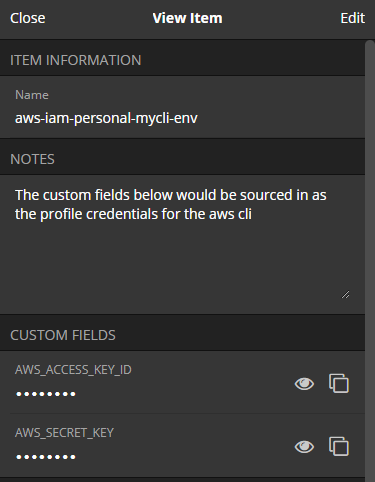
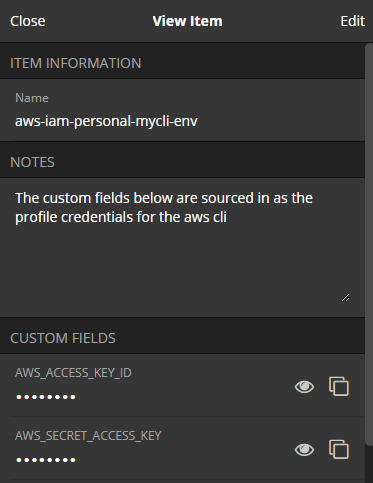
update

diff --git a/README.md b/README.md
@@ -13,23 +13,23 @@ See AWS Documentation [Sourcing credentials with an external process](https://do
 ### Adding AWS Secrets to Bitwarden
 ![](/assets/bw-item-ss.png "bitwarden item for aws-bw")
 - Create an item to store a single aws credential profile. Make the name unique so it is easy to find. E.g. `aws-iam-personal-mycli-env` or a naming convention like `<clientA>-aws-iam-<account>-<name>-env` perhaps.
-- Add the following custom fields and provide their values: `AWS_ACCESS_KEY_ID` and `AWS_SECRET_KEY`
+- Add the following custom fields and provide their values: `AWS_ACCESS_KEY_ID` and `AWS_SECRET_ACCESS_KEY`
 
 ### Getting secrets onto server
 #### Initial Configuration
-- Consider [envwarden](https://github.com/envwarden/envwarden) if needing to set Environment Variables.
-- If wanting to source the `.aws/credentials` profile values to a Bitwarden Item, modify the profile to use the `aws-bw` script and pass the relevant Bitwarden Item Name. E.g.
+- If the preferred approach is to set Environment Variables, then consider [envwarden](https://github.com/envwarden/envwarden).
+- If the preferred approach is with the `.aws/credentials` file, then configure it to use the `aws-bw` script and pass the relevant Bitwarden Item Name to lookup. E.g.
 ```
 [default]
-credential_process = aws-bw -n 'aws-iam-personal-mycli-env'
+credential_process = aws-bw -s 'aws-iam-personal-mycli-env'
 [profileA]
-credential_process = aws-bw -n '<bw-item-name>'
+credential_process = aws-bw -s '<bw-item-name>'
 ```
+*Note: The Bitwarden Item Name is expected to have both `AWS_ACCESS_KEY_ID` and `AWS_SECRET_ACCESS_KEY` as Custom Fields.*
 #### General Use-Case Steps
 - First unlock the vault to generate a session key with Bitwarden & set the environment variable:
 ```
-bw unlock
-export BW_SESSION="<bitwarden-generated-session-key>
+export BW_SESSION="$(bw unlock --raw)"
 ```
 *Note: Unfortunately AWS doesn't appear to pass-along any prompts that an external script might need from the user so this must be done as a manual step prior to using the script.*
 
